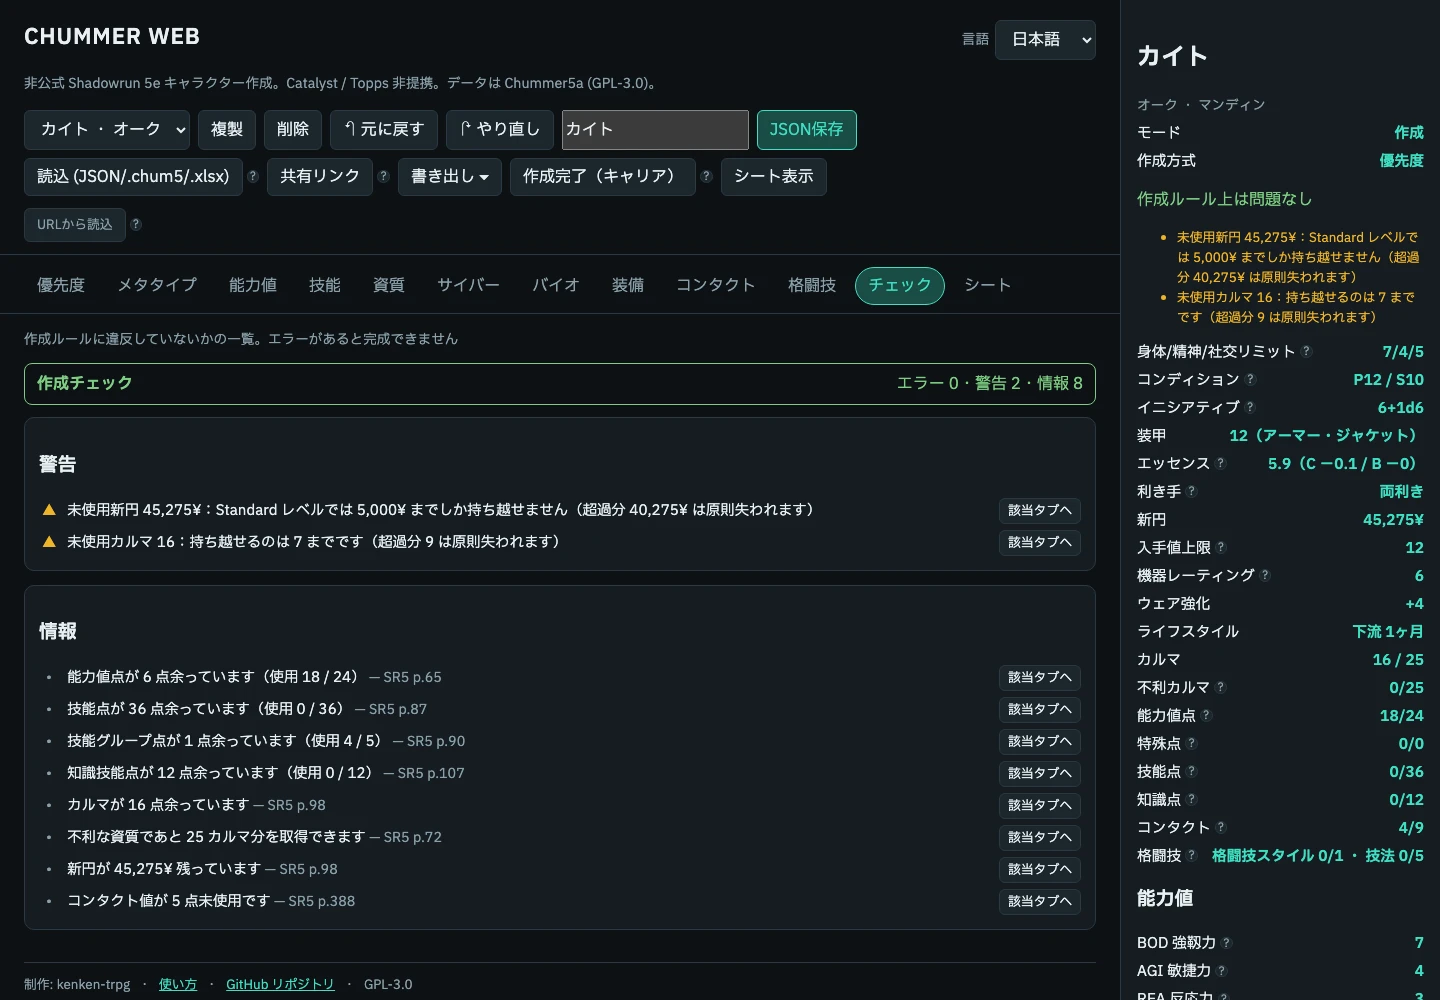
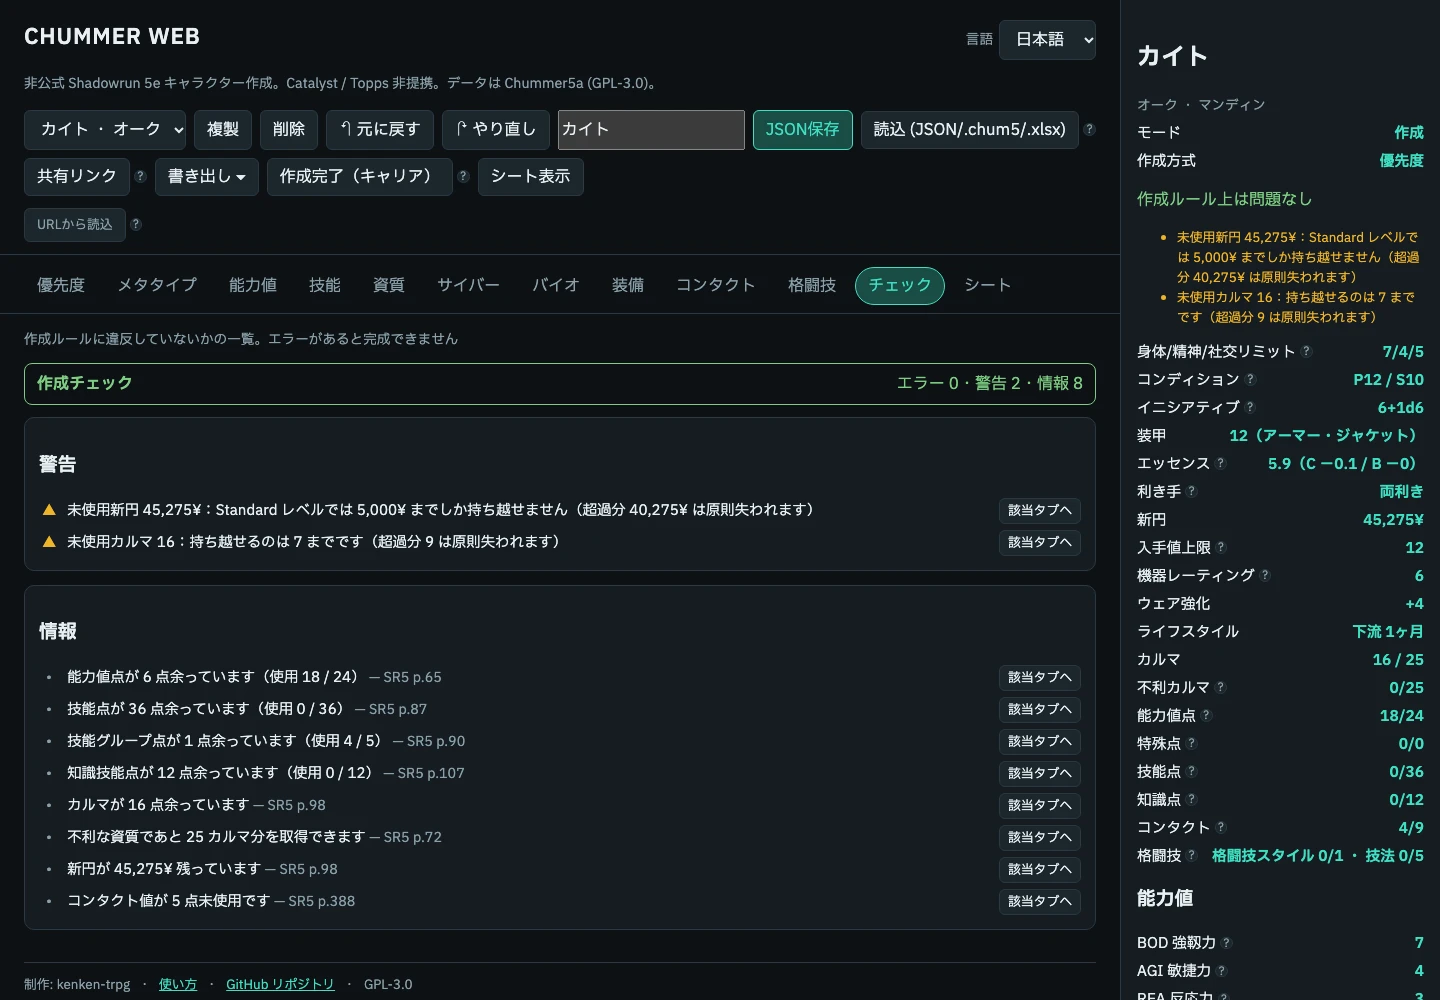
docs(manual): refresh the stills for v0.5.18 [skip changelog]
Re-ran capture-manual.mjs and kept the 22 stills that changed: the focus
row now has its bond checkbox and tradition picker, the rulebook count
is 84 rather than 93, the export menu lists the detailed Matrix palette,
and the toolbar wraps one button later with IBM Plex Sans JP. The four
stills with no visible change, and the animations, are left as they were.

The export menu is now shot on the attributes tab: in the sheet's
full-width toolbar 書き出し sits at the right edge and its panel runs
off the screen.

Changed region(s): [[0.0312, 0.093, 0.75, 0.217], [0.6562, 0.031, 0.75, 0.062]]

diff --git a/frontend/public/manual/index.html b/frontend/public/manual/index.html
@@ -231,10 +231,9 @@
       <p class="shot-note">
         掲載している画面は、このマニュアル用に作ったオークのサンプル「カイト」のものです。
         魔法・共振・A.I.・クリッターのタブだけは、そのタブが出る別のサンプル（アヤ・レン・ゴースト・ジャック）で撮っています。
-        本文と画面は v0.5.13 の後の開発版（2026年10月23日撮影）の表記に合わせています。
+        本文と画面は v0.5.18 の後の開発版（2026年11月3日撮影）の表記に合わせています。
         数値は操作説明用のサンプルで、作成完了済みのキャラクターではありません。
-        動きのある図（動画）は
-        2026年11月3日の開発版で撮っています。動きを抑える設定のブラウザでは最後の場面だけを表示します。
+        動きのある図（動画）も同じ版で撮っています。動きを抑える設定のブラウザでは最後の場面だけを表示します。
       </p>
 
       <section id="overview">
@@ -319,7 +318,7 @@
         <figure>
           <img
             src="img/ui-settings-folder.webp"
-            alt="セッティングの欄。プルダウンに読み込んだ「卓のハウスルール」が選ばれ、使用ルールブック 2 / 93、「このセッティングを削除」ボタン、「カスタムデータを 1 件適用しました」と内訳の表（qualities.xml・追加・1 件・Table Favor）"
+            alt="セッティングの欄。プルダウンに読み込んだ「卓のハウスルール」が選ばれ、使用ルールブック 2 / 84、「このセッティングを削除」ボタン、「カスタムデータを 1 件適用しました」と内訳の表（qualities.xml・追加・1 件・Table Favor）"
           />
           <figcaption>
             settings と customdata
@@ -682,7 +681,7 @@
         <figure>
           <img
             src="img/tab-foci.webp"
-            alt="収束具タブ。先頭に同時に持てる数とフォース合計の上限。取得済みの魔力収束具（フォース欄つき）、その下に収束具のカタログと 購入／クラフト のボタン"
+            alt="収束具タブ。先頭に同時に持てる数とフォース合計の上限。取得済みの魔力収束具（「結合する」のチェック・フォース・様式の欄つき）、その下に収束具のカタログと 購入／クラフト のボタン"
           />
           <figcaption>
             収束具タブ。「購入」は定価で、「クラフト」は自作です。結合に払うカルマはフォースで決まり、
@@ -886,7 +885,7 @@
         <figure>
           <img
             src="img/ui-export-menu.webp"
-            alt="ツールバーの「書き出し」メニューを開いた状態。.chum5書出・.xlsx書出・FVTT書出・ココフォリア・ユドナリウム・チャットパレット・未修得技能もの各項目"
+            alt="ツールバーの「書き出し」メニューを開いた状態。.chum5書出・.xlsx書出・FVTT書出・ココフォリア・ユドナリウム・チャットパレット・未修得技能も・マトリックス系詳細チャットパレットの各項目"
           />
           <figcaption>
             「書き出し
